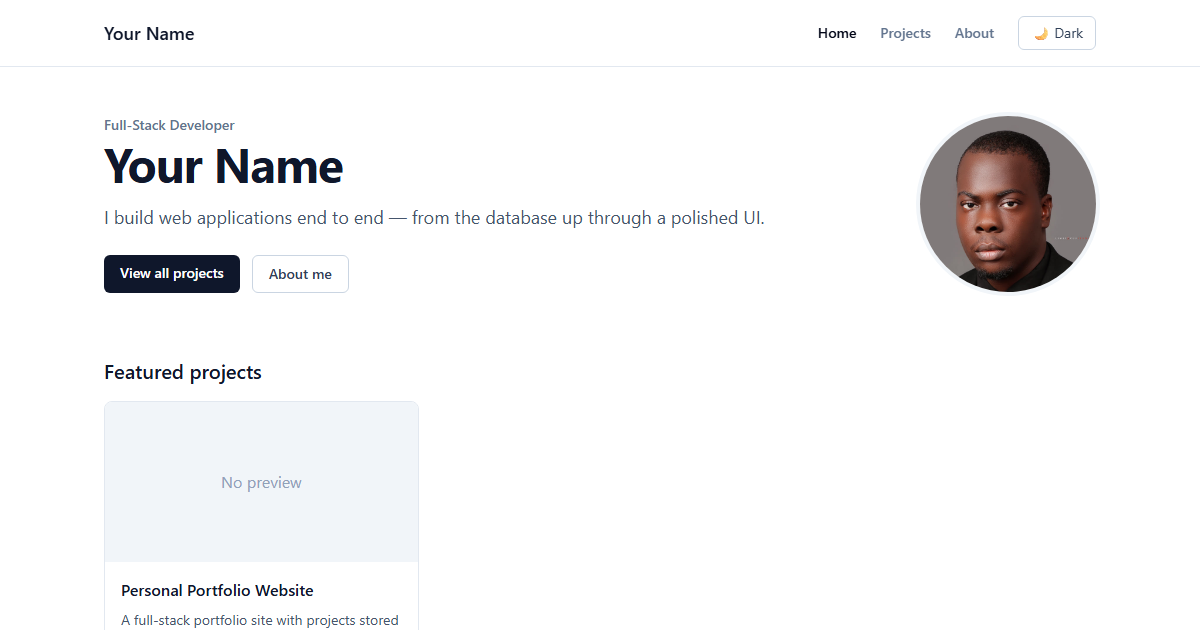
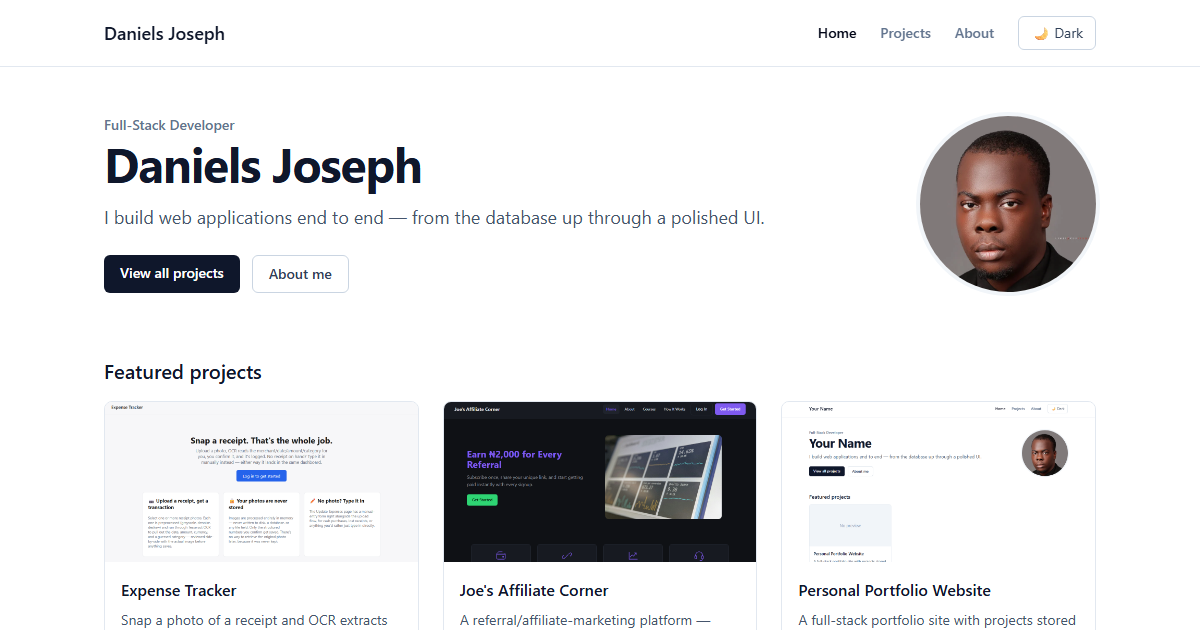
Add Call and WhatsApp buttons to contact section, refresh portfolio thumbnail
Contact section now includes tel: and wa.me links alongside email/
GitHub/LinkedIn. Portfolio-website thumbnail was stale (showed
placeholder "Your Name" content from before the site was populated);
replaced with a fresh screenshot of the live homepage.

diff --git a/frontend/src/components/ContactSection.tsx b/frontend/src/components/ContactSection.tsx
@@ -15,6 +15,20 @@ export default function ContactSection() {
           Email me
         </a>
         <a
+          href={`tel:${siteConfig.phone}`}
+          className="rounded-md border border-slate-300 px-4 py-2 text-sm font-medium text-slate-700 transition hover:bg-slate-100 dark:border-slate-700 dark:text-slate-300 dark:hover:bg-slate-800"
+        >
+          Call me
+        </a>
+        <a
+          href={siteConfig.social.whatsapp}
+          target="_blank"
+          rel="noreferrer"
+          className="rounded-md border border-slate-300 px-4 py-2 text-sm font-medium text-slate-700 transition hover:bg-slate-100 dark:border-slate-700 dark:text-slate-300 dark:hover:bg-slate-800"
+        >
+          WhatsApp
+        </a>
+        <a
           href={siteConfig.social.github}
           target="_blank"
           rel="noreferrer"

diff --git a/frontend/src/config/site.ts b/frontend/src/config/site.ts
@@ -7,11 +7,13 @@ export const siteConfig = {
 
 Replace this paragraph (and everything else in src/config/site.ts) with your own bio, skills, and links.`,
   email: "josephdaniels3x@gmail.com",
+  phone: "+2349033899569",
   resumeUrl: "/resume.pdf",
   photoUrl: "/profile.jpg",
   social: {
     github: "https://github.com/danielsjoseph",
     linkedin: "https://www.linkedin.com/in/joseph-daniels-1b45891a9",
+    whatsapp: "https://wa.me/2349033899569",
   },
   skills: [
     "React",
